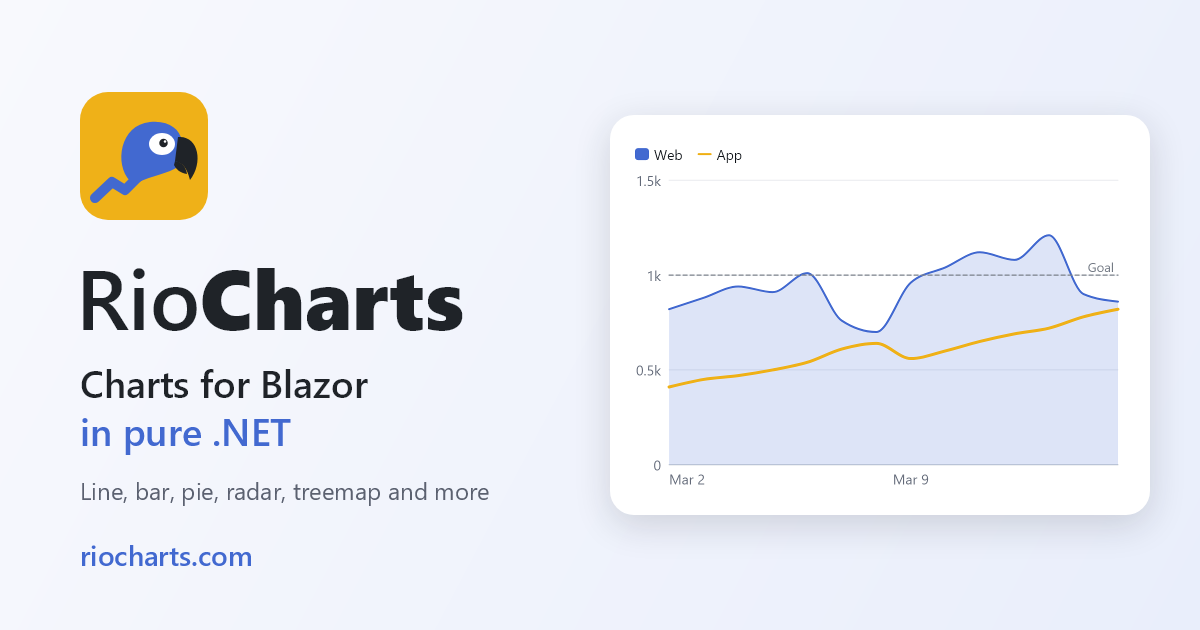
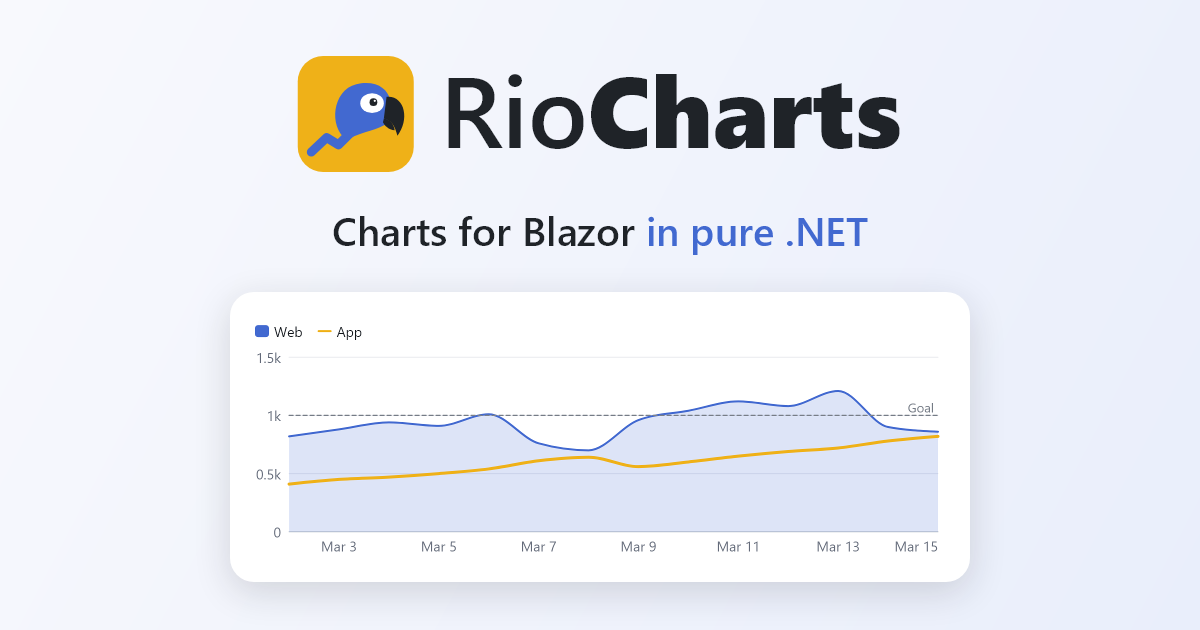
Docs site: center the link preview card so square thumbnails keep the name

diff --git a/tools/SocialCard.cs b/tools/SocialCard.cs
@@ -5,6 +5,10 @@
 // and a chart drawn by RioCharts.Skia. Run from the repository root:
 //   dotnet run tools/SocialCard.cs
 // It writes samples/RioCharts.Docs/wwwroot/social-card.png. Uses Segoe UI (Windows).
+//
+// Everything is centered: Teams (and others) show a small, nearly square thumbnail cut from the
+// middle, while Slack, LinkedIn and X show the whole card. The logo and name sit in the middle
+// third so they survive the crop.
 
 using System.Globalization;
 using RioCharts.Core;
@@ -13,7 +17,7 @@ using RioCharts.Skia;
 using SkiaSharp;
 
 const int Width = 1200, Height = 630;
-const string Ink = "#1f2328", Blue = "#4269d0", Muted = "#5b6170";
+const string Ink = "#1f2328", Blue = "#4269d0";
 var output = Path.Combine("samples", "RioCharts.Docs", "wwwroot", "social-card.png");
 
 // A chart drawn by the library itself: web sessions over two weeks against a goal.
@@ -30,7 +34,7 @@ var spec = new ChartSpec
     Annotations = [new AnnotationSpec { Value = 1000.0, Label = "Goal" }],
 };
 var data = new Dictionary<string, SeriesData> { ["web"] = SeriesData.From(days, web), ["app"] = SeriesData.From(days, app) };
-const int ChartWidth = 500, ChartHeight = 360;
+const int ChartWidth = 700, ChartHeight = 250;
 var chartPng = ChartExport.ToPng(spec, data, new ExportOptions
 {
     Width = ChartWidth, Height = ChartHeight, Scale = 2, FontSize = 14, Culture = CultureInfo.GetCultureInfo("en-US"),
@@ -48,14 +52,6 @@ using (var paint = new SKPaint())
     canvas.DrawRect(0, 0, Width, Height, paint);
 }
 
-// The logo (assets/icon.svg, 256 × 256), drawn at 128 px.
-canvas.Save();
-canvas.Translate(80, 92);
-canvas.Scale(128f / 256);
-DrawLogo(canvas);
-canvas.Restore();
-
-// Name and tagline.
 static SKFont Font(int size, SKFontStyleWeight weight) =>
     new(SKTypeface.FromFamilyName("Segoe UI", weight, SKFontStyleWidth.Normal, SKFontStyleSlant.Upright), size);
 
@@ -65,24 +61,34 @@ void Text(string text, float x, float y, SKFont font, string color)
     canvas.DrawText(text, x, y, SKTextAlign.Left, font, paint);
 }
 
-using var nameRegular = Font(84, SKFontStyleWeight.Medium);
-using var nameBold = Font(84, SKFontStyleWeight.ExtraBold);
-Text("Rio", 76, 330, nameRegular, Ink);
-Text("Charts", 76 + nameRegular.MeasureText("Rio"), 330, nameBold, Ink);
+// Logo and name on one centered row.
+const float LogoSize = 116, Gap = 26, RowTop = 56;
+using var nameRegular = Font(100, SKFontStyleWeight.Medium);
+using var nameBold = Font(100, SKFontStyleWeight.ExtraBold);
+var rio = nameRegular.MeasureText("Rio");
+var nameWidth = rio + nameBold.MeasureText("Charts");
+var rowLeft = (Width - (LogoSize + Gap + nameWidth)) / 2;
 
-using var tagline = Font(38, SKFontStyleWeight.SemiBold);
-Text("Charts for Blazor", 80, 398, tagline, Ink);
-Text("in pure .NET", 80, 446, tagline, Blue);
+canvas.Save();
+canvas.Translate(rowLeft, RowTop);
+canvas.Scale(LogoSize / 256);
+DrawLogo(canvas);
+canvas.Restore();
 
-using var small = Font(24, SKFontStyleWeight.Normal);
-Text("Line, bar, pie, radar, treemap and more", 80, 500, small, Muted);
+var baseline = RowTop + LogoSize / 2 + 34; // the name's capitals centered on the logo
+Text("Rio", rowLeft + LogoSize + Gap, baseline, nameRegular, Ink);
+Text("Charts", rowLeft + LogoSize + Gap + rio, baseline, nameBold, Ink);
 
-using var url = Font(28, SKFontStyleWeight.SemiBold);
-Text("riocharts.com", 80, 566, url, Blue);
+// Tagline, centered: "Charts for Blazor in pure .NET" with the last part in blue.
+using var tagline = Font(40, SKFontStyleWeight.SemiBold);
+const string First = "Charts for Blazor ", Second = "in pure .NET";
+var taglineLeft = (Width - tagline.MeasureText(First + Second)) / 2;
+Text(First, taglineLeft, 246, tagline, Ink);
+Text(Second, taglineLeft + tagline.MeasureText(First), 246, tagline, Blue);
 
-// The chart on a white card with a soft shadow.
-var card = new SKRect(610, 115, 610 + ChartWidth + 40, 115 + ChartHeight + 40);
-using (var shadow = new SKPaint { Color = SKColor.Parse("#1f2328").WithAlpha(40), IsAntialias = true, MaskFilter = SKMaskFilter.CreateBlur(SKBlurStyle.Normal, 18) })
+// The chart on a white card with a soft shadow, centered below.
+var card = SKRect.Create((Width - ChartWidth - 40) / 2f, 292, ChartWidth + 40, ChartHeight + 40);
+using (var shadow = new SKPaint { Color = SKColor.Parse(Ink).WithAlpha(40), IsAntialias = true, MaskFilter = SKMaskFilter.CreateBlur(SKBlurStyle.Normal, 18) })
 {
     canvas.DrawRoundRect(new SKRect(card.Left, card.Top + 10, card.Right, card.Bottom + 10), 24, 24, shadow);
 }
@@ -95,7 +101,7 @@ using (var white = new SKPaint { Color = SKColors.White, IsAntialias = true })
 using (var chart = SKImage.FromEncodedData(chartPng))
 using (var sampling = new SKPaint { IsAntialias = true })
 {
-    canvas.DrawImage(chart, new SKRect(card.Left + 20, card.Top + 20, card.Left + 20 + ChartWidth, card.Top + 20 + ChartHeight),
+    canvas.DrawImage(chart, SKRect.Create(card.Left + 20, card.Top + 20, ChartWidth, ChartHeight),
         new SKSamplingOptions(SKCubicResampler.Mitchell), sampling);
 }
 
@@ -134,7 +140,6 @@ static void DrawLogo(SKCanvas canvas)
     using (var eye = new SKPaint { Color = SKColors.White, IsAntialias = true })
     {
         canvas.DrawOval(new SKRect(164 - 26, 104 - 22, 164 + 26, 104 + 22), eye);
-        canvas.DrawCircle(170, 99, 2.5f, eye);
     }
 
     using (var pupil = new SKPaint { Color = SKColor.Parse("#1f2328"), IsAntialias = true })
